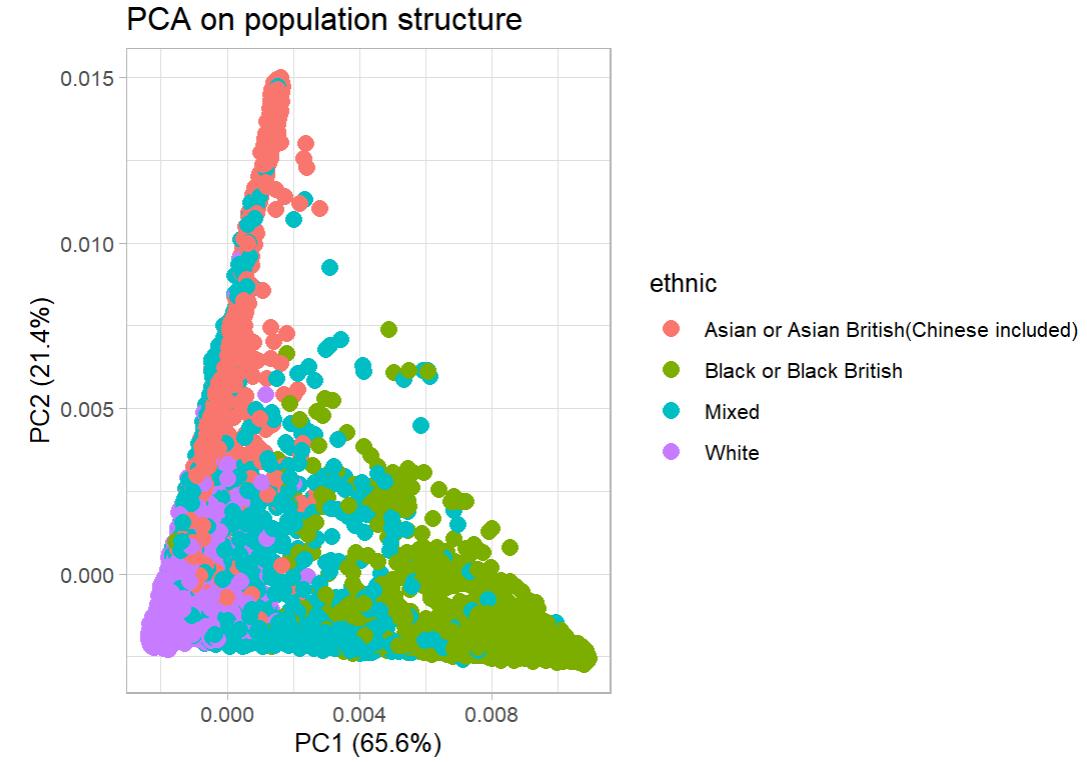
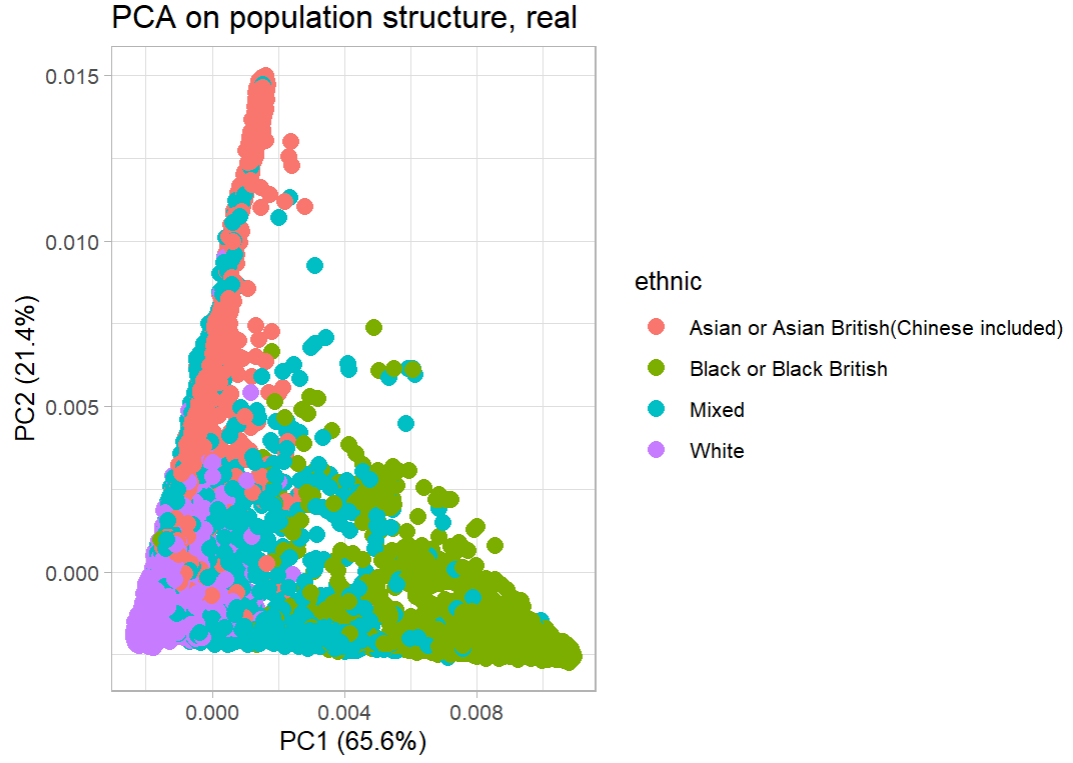
Regions, single ancestry

diff --git a/commands_Week4.md b/commands_Week4.md
@@ -25,3 +25,7 @@ Multi-ancestry Meta Analysis
 2. PCA comparason: real and K-means.   
    K-means performs well, and can predict on Missed Ethnicity, and wrong self-identification.   
    In other word, I can use the K-means to make division on data_qc.fam file.   
+
+Plot comparison see in: Week_4 section of latex.   
+Accuracy = 0.95.   
+3. Extract files out: data_Mixed.fam, data_Asian.fam, data_Black.fam, data_White.fam   
